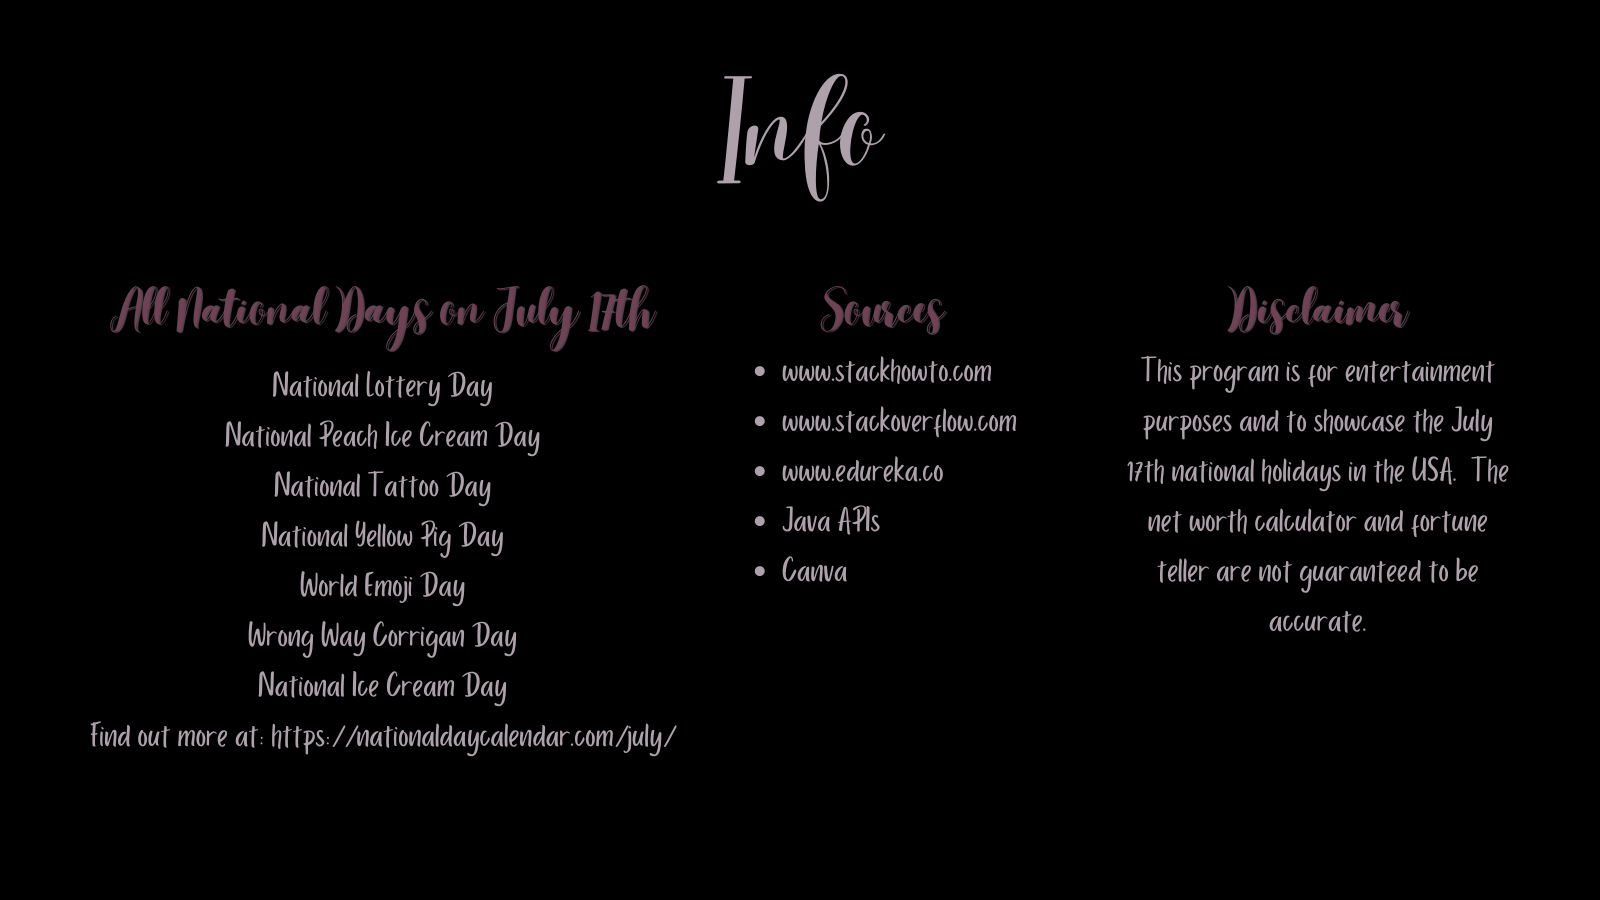
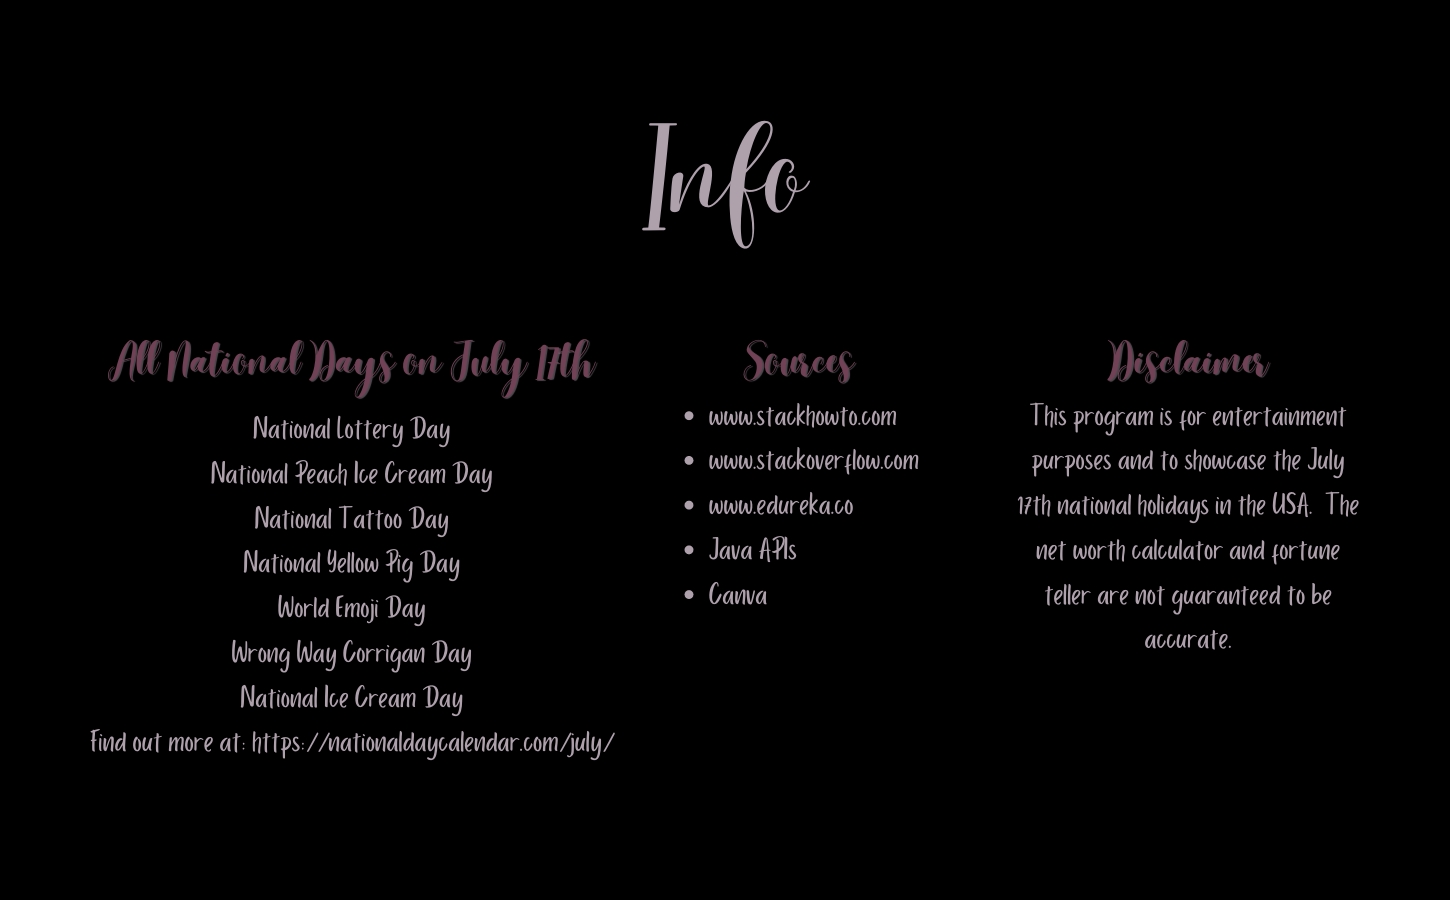
f

diff --git a/src/Core/July17.java b/src/Core/July17.java
@@ -48,43 +48,41 @@ public class July17 extends JFrame implements ActionListener {
 		ImageIcon menuBackground = new ImageIcon("img//menu.gif"); 
 		JLabel menuLabel = new JLabel(menuBackground);
 		menuLabel.setSize(1600, 900);
+		menuLabel.setLocation(10, 100);
+		menuPanel.setBackground(Color.BLACK);
 		
 		ImageIcon nwcIcon = new ImageIcon("img//nwc.png"); 
 		Image nwcIconNew = nwcIcon.getImage();
-		Image nwcIconModified = nwcIconNew.getScaledInstance(282, 282, Image.SCALE_SMOOTH);
+		Image nwcIconModified = nwcIconNew.getScaledInstance(296, 296, Image.SCALE_SMOOTH);
 		nwcIcon = new ImageIcon(nwcIconModified);
 	    goCalculator = new JButton(nwcIcon);
-	    goCalculator.setBounds(787, 90, 282, 282);
+	    goCalculator.setBounds(705, 90, 296, 296);
 	    goCalculator.setBackground(Color.BLACK);
 	    goCalculator.setBorderPainted(false);
 		goCalculator.addActionListener(this);
 	    
 	    ImageIcon fortuneIcon = new ImageIcon("img//ft.png"); 
 	    Image fortuneIconNew = fortuneIcon.getImage();
-		Image fortuneIconModified = fortuneIconNew.getScaledInstance(282, 282, Image.SCALE_SMOOTH);
+		Image fortuneIconModified = fortuneIconNew.getScaledInstance(296, 296, Image.SCALE_SMOOTH);
 		fortuneIcon = new ImageIcon(fortuneIconModified);
 	    goFortune = new JButton(fortuneIcon);
-	    goFortune.setBounds(1174, 90, 282, 282);
+	    goFortune.setBounds(1054, 90, 296, 296);
 	    goFortune.setBackground(Color.BLACK);
 	    goFortune.setBorderPainted(false);
 		goFortune.addActionListener(this);
 	    
 	    ImageIcon infoIcon = new ImageIcon("img//i.png"); 
 	    Image infoIconNew = infoIcon.getImage();
-		Image infoIconnModified = infoIconNew.getScaledInstance(282, 282, Image.SCALE_SMOOTH);
+		Image infoIconnModified = infoIconNew.getScaledInstance(296, 296, Image.SCALE_SMOOTH);
 		infoIcon = new ImageIcon(infoIconnModified);
 	    goInfo = new JButton(infoIcon);
-	    goInfo.setBounds(787, 486, 282, 282);
+	    goInfo.setBounds(705, 434, 296, 296);
 	    goInfo.setBackground(Color.BLACK);
 	    goInfo.setBorderPainted(false);
 	    goInfo.addActionListener(this);
 	    
-	    ImageIcon birdIcon = new ImageIcon("img//b.gif"); 
-	    Image birdIconNew = birdIcon.getImage();
-		Image birdIconModified = birdIconNew.getScaledInstance(282, 282, Image.SCALE_SMOOTH);
-		infoIcon = new ImageIcon(birdIconModified);
 	    goBird = new JButton();
-	    goBird.setBounds(1174, 486, 282, 282);
+	    goBird.setBounds(1054, 434, 296, 296);
 	    goBird.setBackground(Color.BLACK);
 	    goBird.setBorderPainted(false);
 	    goBird.setOpaque(false);
@@ -114,7 +112,7 @@ public class July17 extends JFrame implements ActionListener {
 		calcLabel.setSize(1600, 900);
 		
 		mathBox = new JComboBox<>(mathOptions);
-	    mathBox.setBounds(543, 244, 140, 50);
+	    mathBox.setBounds(543, 250, 140, 50);
 	    mathBox.setBackground(Color.WHITE);
 	    mathBox.setForeground(new Color(40, 75, 80));
 	    
@@ -124,17 +122,17 @@ public class July17 extends JFrame implements ActionListener {
 	    peachBox.setForeground(new Color(40, 75, 80));
 	    
 	    tattooBox = new JComboBox<>(tattooOptions);
-	    tattooBox.setBounds(543, 508, 140, 50);
+	    tattooBox.setBounds(543, 503, 140, 50);
 	    tattooBox.setBackground(Color.WHITE);
 	    tattooBox.setForeground(new Color(40, 75, 80));
 	    
 	    emojiBox = new JComboBox<>(emojiOptions);
-	    emojiBox.setBounds(543, 625, 140, 50);
+	    emojiBox.setBounds(543, 628, 140, 50);
 	    emojiBox.setBackground(Color.WHITE);
 	    emojiBox.setForeground(new Color(40, 75, 80));
 	    
 	    iceCreamBox = new JComboBox<>(iceCreamOptions);
-	    iceCreamBox.setBounds(1263, 244, 140, 50);
+	    iceCreamBox.setBounds(1263, 250, 140, 50);
 	    iceCreamBox.setBackground(Color.WHITE);
 	    iceCreamBox.setForeground(new Color(40, 75, 80));
 	    
@@ -144,12 +142,12 @@ public class July17 extends JFrame implements ActionListener {
 	    planeBox.setForeground(new Color(40, 75, 80));
 	    
 	    lotteryBox = new JComboBox<>(lotteryOptions);
-	    lotteryBox.setBounds(1263, 508, 140, 50);
+	    lotteryBox.setBounds(1263, 503, 140, 50);
 	    lotteryBox.setBackground(Color.WHITE);
 	    lotteryBox.setForeground(new Color(40, 75, 80));
 	    
 	    holidayBox = new JComboBox<>(holidayOptions);
-	    holidayBox.setBounds(1263, 625, 140, 50);
+	    holidayBox.setBounds(1263, 628, 140, 50);
 	    holidayBox.setBackground(Color.WHITE);
 	    holidayBox.setForeground(new Color(40, 75, 80));
 	    
@@ -271,7 +269,7 @@ public class July17 extends JFrame implements ActionListener {
 		//Info Panel start ------------------------------------------------------------
 		
 		goMenu3 = new JButton(backButton);
-		goMenu3.setBounds(150, 80, 70, 70);
+		goMenu3.setBounds(80, 80, 70, 70);
 		goMenu3.setBackground(Color.BLACK);
 		goMenu3.setBorderPainted(false);
 		goMenu3.addActionListener(this);
@@ -280,7 +278,15 @@ public class July17 extends JFrame implements ActionListener {
 		JLabel infoLabel = new JLabel(infoBackground);
 		infoLabel.setSize(1600, 900);
 		
+		ImageIcon buttonPointerIcon = new ImageIcon("img//buttonPointer.png");
+	    Image buttonPointerIconnNew = buttonPointerIcon.getImage();
+		Image buttonPointerIconModified = buttonPointerIconnNew.getScaledInstance(213, 32, Image.SCALE_SMOOTH);
+		buttonPointerIcon = new ImageIcon(buttonPointerIconModified);
+		JLabel buttonPointerLabel = new JLabel(buttonPointerIcon);
+		buttonPointerLabel.setBounds(160, 97, 213, 32);
+		
 		infoLabel.add(goMenu3);
+		infoLabel.add(buttonPointerLabel);
 		
 		infoPanel.add(infoLabel);
 		
@@ -334,8 +340,7 @@ public class July17 extends JFrame implements ActionListener {
 			int tier = calcNetWorth();
 			
 			JFrame result = new JFrame();
-			result.setSize(500, 500);
-			result.setBackground(Color.BLACK);
+			result.setSize(443, 470);
 			result.setLocation(0, 0);
 			result.setLocationRelativeTo(null);
 			result.setResizable(false);
